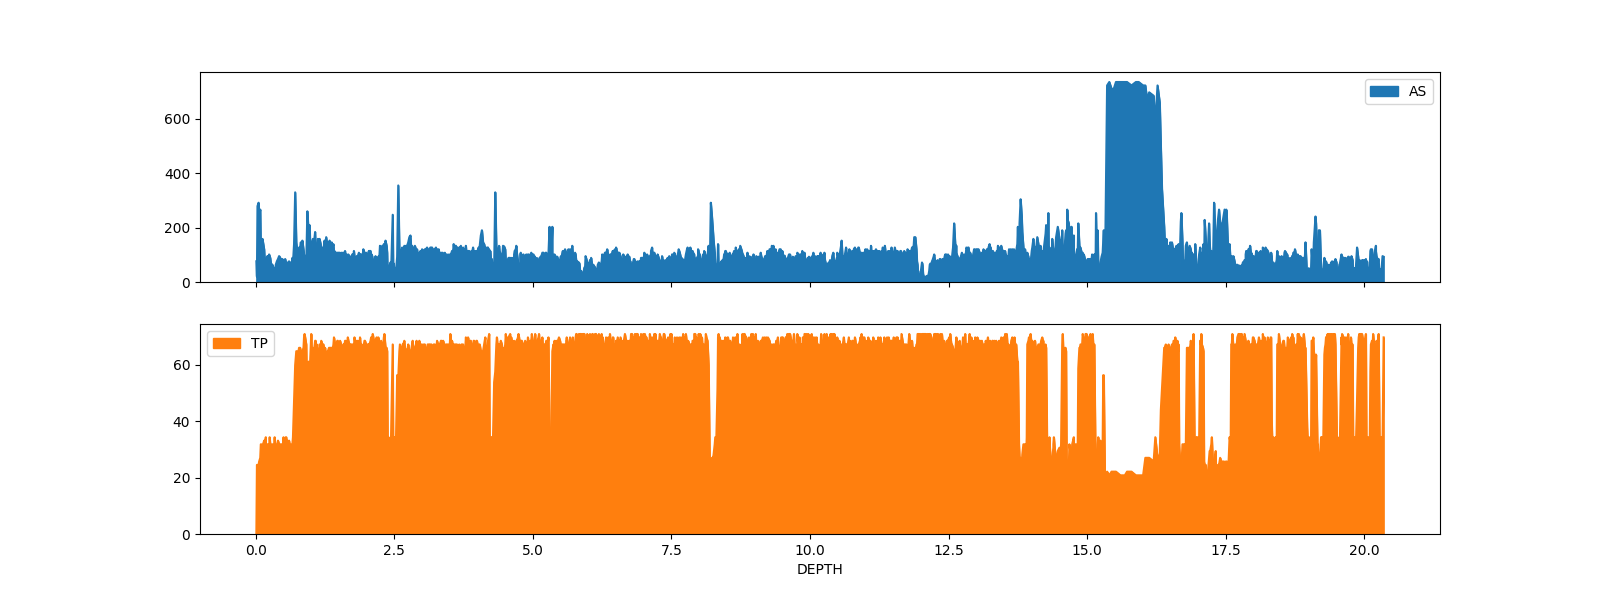
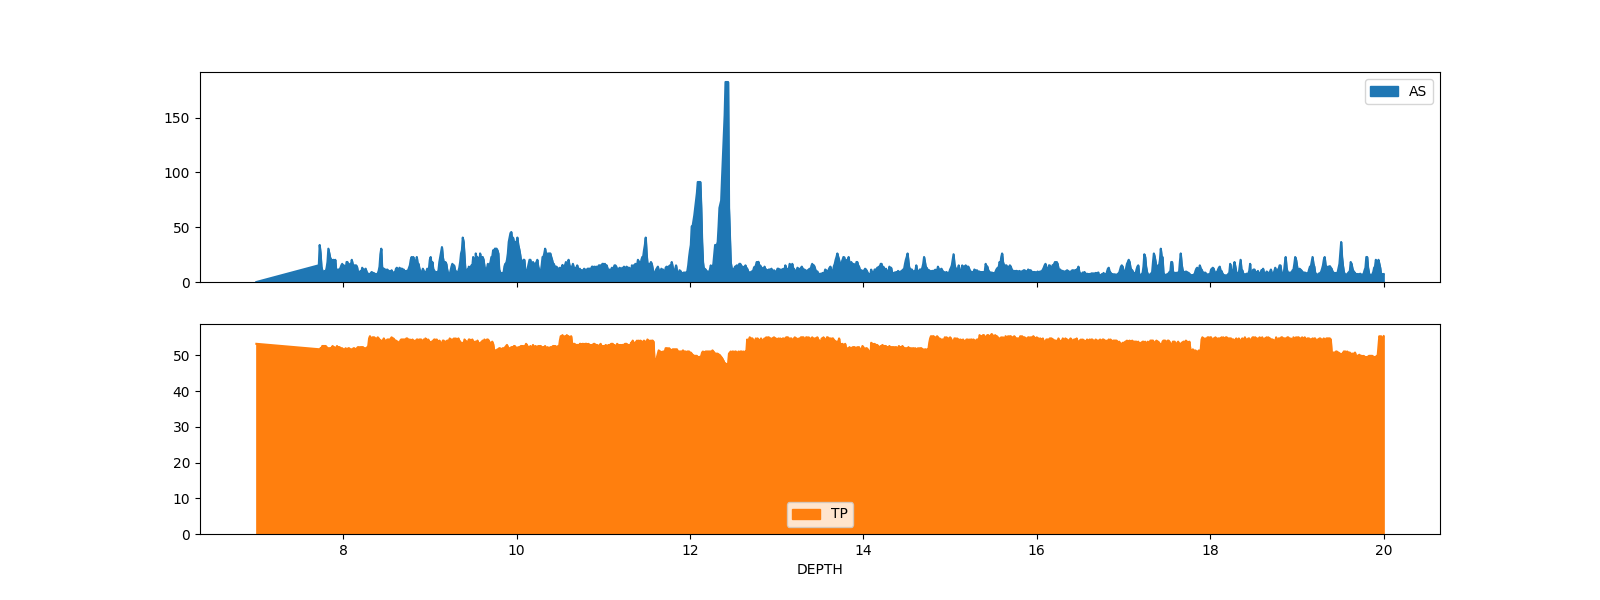
Update usage example

diff --git a/README.rst b/README.rst
@@ -25,7 +25,7 @@ Usage
 .. code-block:: python
 
   >>> import bor
-  >>> bor_file = bor.read('./tests/data/parameters/DRILL/59650240611100849D.bor')
+  >>> bor_file = bor.read('./tests/data/parameters/DRILL/50000240718143044D/50000240718143044D.bor')
 
 
 .. code-block:: python
@@ -50,49 +50,49 @@ BOR data can be used and edited as a `pandas DataFrame`_
   >>> pandas.set_option('display.precision', 2)
   >>>
   >>> bor_file.data
-          DEPTH     AS    RV  EVP  EVR    TP    IP    TQ
+          DEPTH     AS  EVP  EVR     TP    IP     TQ   HP
   time
-  0.0      0.00   76.1   0.0  0.0  0.0   0.1  21.1   0.1
-  2.8      0.02   19.9   0.0  0.0  0.0  24.5  21.1  14.7
-  3.0      0.03  278.9   0.0  0.0  0.0  24.5  21.1  14.7
-  3.2      0.05  291.5   0.0  0.0  0.0  24.5  20.8  14.7
-  3.4      0.06  253.5   0.0  0.0  0.0  25.7  20.6  17.2
-  ...       ...    ...   ...  ...  ...   ...   ...   ...
-  1220.6  20.29   47.5  22.0  0.0  0.0  34.3  20.6  40.4
-  1221.6  20.30   38.0  22.0  0.0  0.0  34.3  20.6  36.7
-  1222.6  20.31   40.6  55.0  0.0  0.0  34.3  21.1  46.5
-  1223.8  20.33   95.1  11.0  0.0  0.0  31.8  17.3  42.8
-  1224.6  20.35   93.0   0.0  0.0  0.0  69.7  16.5  25.7
+  0.0      7.71   0.00    0    0  53.20  0.00  41.60  0.0
+  2.8      7.72  15.23    0    0  51.67  8.64  30.01  0.0
+  4.0      7.73  33.78    0    0  51.67  5.90  32.45  0.0
+  5.4      7.74  26.06    0    0  51.98  0.40  20.85  0.0
+  8.0      7.75  14.03    0    0  51.98  0.00  20.85  0.0
+  ...       ...    ...  ...  ...    ...   ...    ...  ...
+  5211.2  19.95  16.58    0    0  55.34  8.03  33.06  0.1
+  5214.0  19.96  13.03    0    0  55.03  0.10  25.12  0.1
+  5219.4  19.97   6.76    0    0  55.34  0.00  33.97  0.1
+  5224.4  19.98   7.30    0    0  54.42  0.10  28.17  0.1
+  5233.8  20.00   7.30    0    0  55.34  0.00  35.19  0.0
 
-  [1492 rows x 8 columns]
+  [1203 rows x 8 columns]
 
 .. code-block:: python
 
   >>> bor_file.data.describe()
-           DEPTH       AS       RV     EVP     EVR       TP       IP       TQ
-  count  1492.00  1492.00  1492.00  1492.0  1492.0  1492.00  1492.00  1492.00
-  mean      9.94   109.10    41.55     0.0     0.0    61.16    19.43    44.12
-  std       5.86    79.71    62.75     0.0     0.0    14.61     1.71    10.94
-  min       0.00     0.70     0.00     0.0     0.0     0.10    12.20     0.10
-  25%       4.96    80.30     8.00     0.0     0.0    66.00    19.70    36.70
-  50%       9.77   101.40    31.00     0.0     0.0    67.20    20.00    42.80
-  75%      14.62   114.10    59.00     0.0     0.0    68.50    20.20    47.70
-  max      20.35   735.20  1653.00     0.0     0.0    70.90    21.80   134.40
+           DEPTH       AS     EVP       EVR       TP       IP       TQ       HP
+  count  1203.00  1203.00  1203.0  1.20e+03  1203.00  1203.00  1203.00  1203.00
+  mean     13.86    14.53     0.0  5.82e-03    53.30     5.30    31.07     0.05
+  std       3.55    14.40     0.0  7.61e-02     1.53     7.83     7.54     0.09
+  min       7.71     0.00     0.0  0.00e+00    47.40     0.00     8.03     0.00
+  25%      10.78     9.12     0.0  0.00e+00    52.28     0.00    26.34     0.00
+  50%      13.89    11.40     0.0  0.00e+00    53.81     0.71    30.31     0.00
+  75%      16.94    15.20     0.0  0.00e+00    54.42     8.34    34.89     0.10
+  max      20.00   182.43     0.0  1.00e+00    55.95    37.02    77.31     2.23
 
 .. code-block:: python
 
   >>> bor_file.data.loc[:1]
-        DEPTH    AS   RV  EVP  EVR   TP    IP   TQ
+        DEPTH   AS  EVP  EVR    TP   IP    TQ   HP
   time
-  0.0     0.0  76.1  0.0  0.0  0.0  0.1  21.1  0.1
+  0.0    7.71  0.0    0    0  53.2  0.0  41.6  0.0
 
 .. code-block:: python
 
-  >>> bor_file.data.loc[0, 'DEPTH'] = 0.01
+  >>> bor_file.data.loc[0, 'DEPTH'] = 7
   >>> bor_file.data.loc[:1]
-        DEPTH    AS   RV  EVP  EVR   TP    IP   TQ
+        DEPTH   AS  EVP  EVR    TP   IP    TQ   HP
   time
-  0.0    0.01  76.1  0.0  0.0  0.0  0.1  21.1  0.1
+  0.0     7.0  0.0    0    0  53.2  0.0  41.6  0.0
 
 .. code-block:: python
 